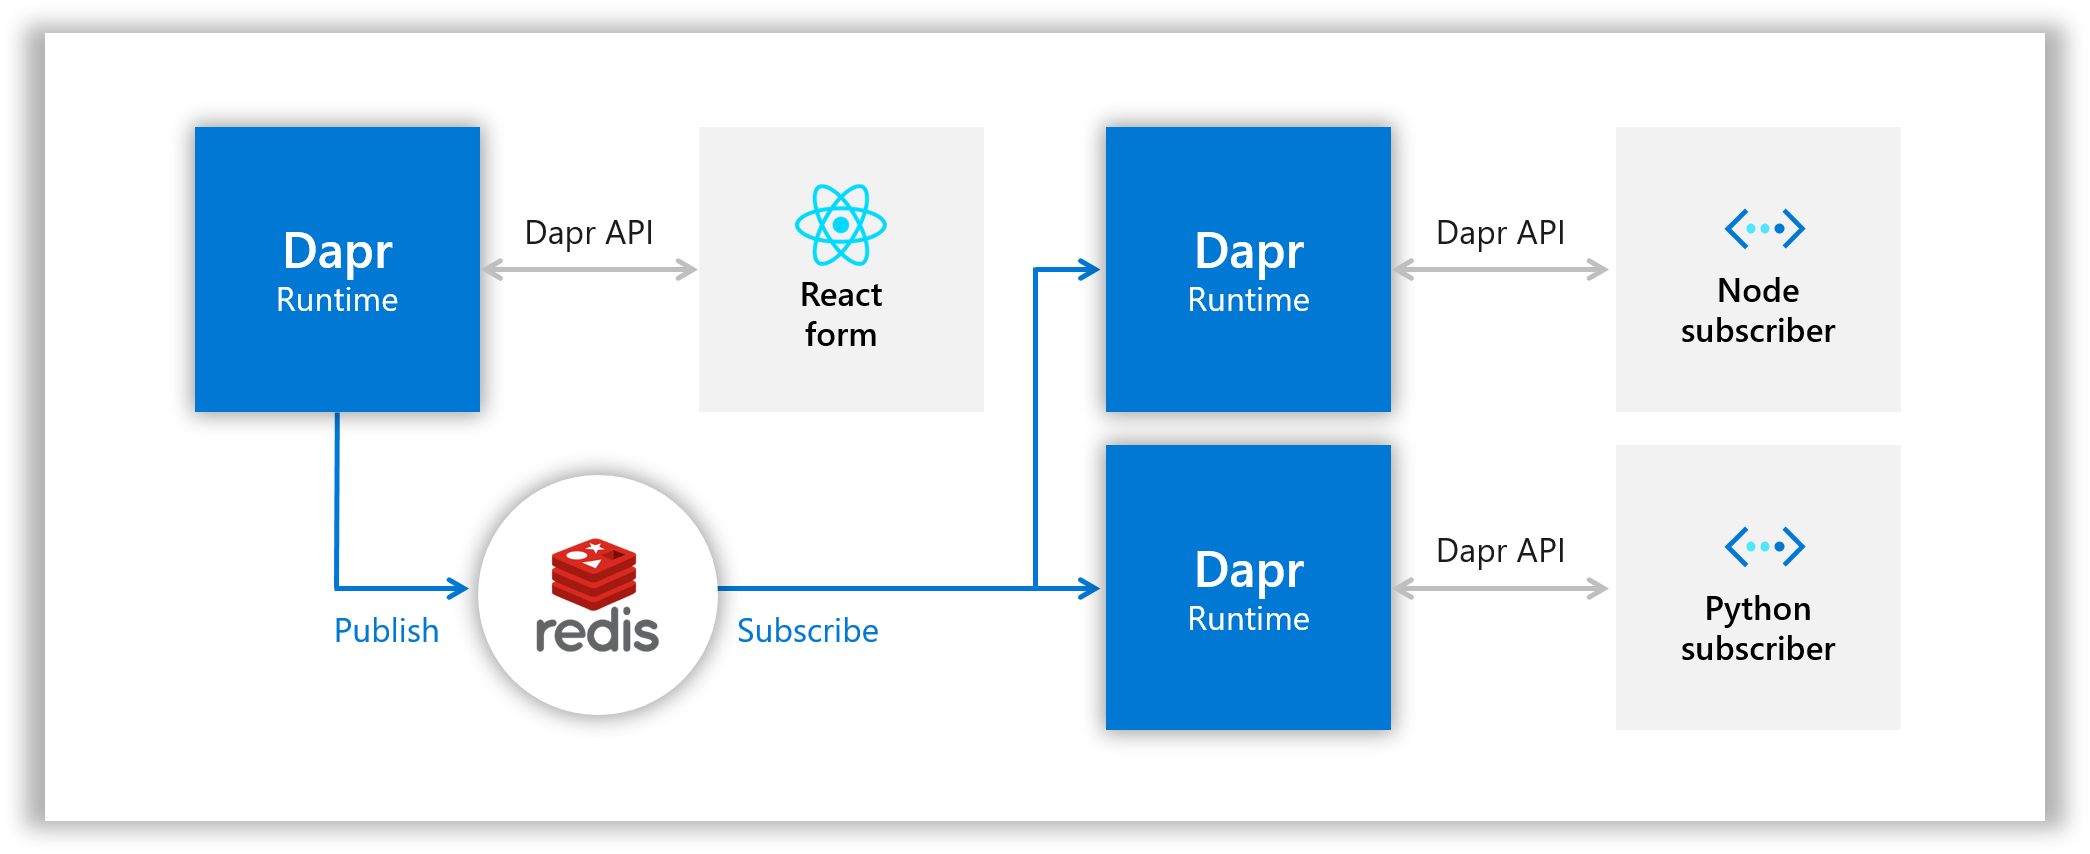
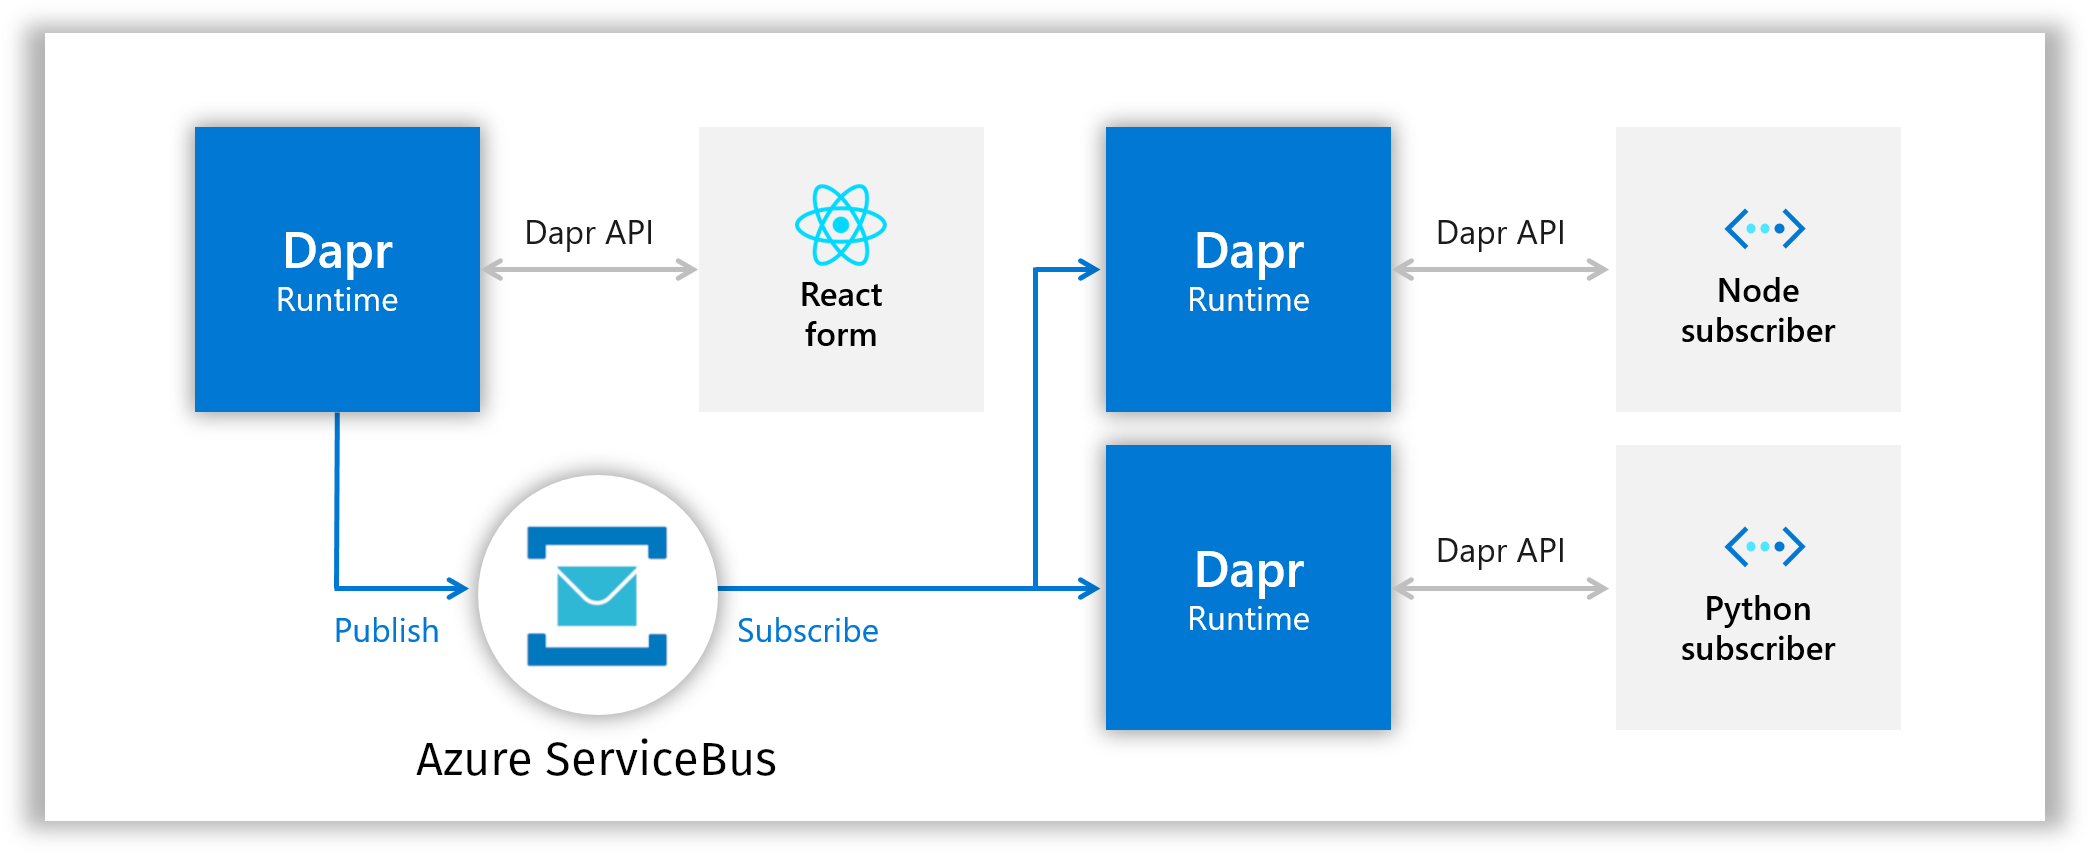
docs: update readme and add license

Changed region(s): [[0.2488, 0.6089, 0.3421, 0.7916], [0.1866, 0.8525, 0.3732, 0.9133]]

diff --git a/README.md b/README.md
@@ -2,7 +2,12 @@
 
 > Learning Azure Container Apps
 
-This repo contains code to deploy the [Dapr pub-sub application](https://github.com/dapr/quickstarts/tree/master/tutorials/pub-sub) on [Azure Container Apps](https://docs.microsoft.com/en-us/azure/container-apps/overview) with [Dapr](https://dapr.io/) using Azure Service Bus for handling publisher and subscriber (Pub-Sub) functionality. The application consists of a React web frontend, a Python subscriber component and a Node subscriber component.
+- 📂 This repo contains code to deploy the [Dapr pub-sub application](https://github.com/dapr/quickstarts/tree/master/tutorials/pub-sub) on [Azure Container Apps](https://docs.microsoft.com/en-us/azure/container-apps/overview) using [Azure Service Bus](https://docs.microsoft.com/en-us/azure/service-bus-messaging/service-bus-messaging-overview) for handling publisher and subscriber (Pub-Sub) functionality. 
+
+- 💻 The application consists of a React web frontend, a Python subscriber component and a Node subscriber component.
+
+- :tophat: Since we use [Dapr](https://dapr.io) we can replace Redis (as used in the [application quickstart](https://github.com/dapr/quickstarts/tree/master/tutorials/pub-sub)) with Azure Service Bus without _any_ changes to the application code. In fact, we change both the environment the apps run in from local containers or Kubernetes to Azure Container Apps _and_ the message broker without modifying the applications themselves! _Portable microservices_ FTW!
+
 
 ### Technologies
 
@@ -12,10 +17,8 @@ This repo contains code to deploy the [Dapr pub-sub application](https://github.
 
 ### Overview
 
-> TODO: update diagram. Redis -> Azure Service Bus
-
 ![diagram](static/Local_Architecture_Diagram.png)
-([diagram by Dapr](https://docs.microsoft.com/en-us/azure/container-apps/microservices-dapr-azure-resource-manager?tabs=powershell&pivots=container-apps-bicep#prerequisites) - [Apache 2.0](https://github.com/dapr/quickstarts/blob/master/LICENSE))
+([modified diagram, original by Dapr](https://github.com/dapr/quickstarts/blob/master/tutorials/pub-sub/img/Local_Architecture_Diagram.png) - [Apache 2.0](https://github.com/dapr/quickstarts/blob/master/LICENSE))
 
 ## Usage
 
@@ -32,6 +35,8 @@ This repo contains code to deploy the [Dapr pub-sub application](https://github.
     - Az Pwsh: `Set-AzContext -SubscriptionName <subscription name>`
     - az cli (optional): `az account set --name <subscription name>`
 6. Register resource provider: `Register-AzResourceProvider -ProviderNamespace Microsoft.App`
+
+**Note:** `az` and the `containerapp` extension is not strictly necessary, but it has some [very nice features for interacting with container apps](https://docs.microsoft.com/en-us/cli/azure/containerapp?view=azure-cli-latest&preserve-view=true) that is worth checking out.
 
 ### Deploy
 
@@ -120,7 +125,7 @@ Example output:
 ]
 ```
 
-:heavy_check_mark: As noted the messages on topic A is received by both the node and python-subscriber, while B is only received by the node-subscriber and C is only received by the python-subscriber. All without any direct coupling between the publisher service and the subscriber services!
+:heavy_check_mark: As noted the messages on topic A is received by both the node and python-subscriber, while B is only received by the node-subscriber and C is only received by the python-subscriber. All without any direct coupling between the publisher service and the subscriber services! Loosely coupled? ;)
 
 This is a _very simple_ explanation of how [Service Bus topics works](https://docs.microsoft.com/en-us/azure/service-bus-messaging/service-bus-messaging-overview#topics), but feel free to read more about [architectural considerations around Pub-Sub architecture](https://docs.microsoft.com/en-us/azure/architecture/patterns/publisher-subscriber)!
 
@@ -132,3 +137,7 @@ The deployed resources will not incur large costs, but to clean everything up ru
 ```powershell
 Remove-AzResourceGroup -Name dapr-pubsub-containerapps-demo -Force
 ```
+
+## License
+
+[Apache License 2.0](LICENSE)
